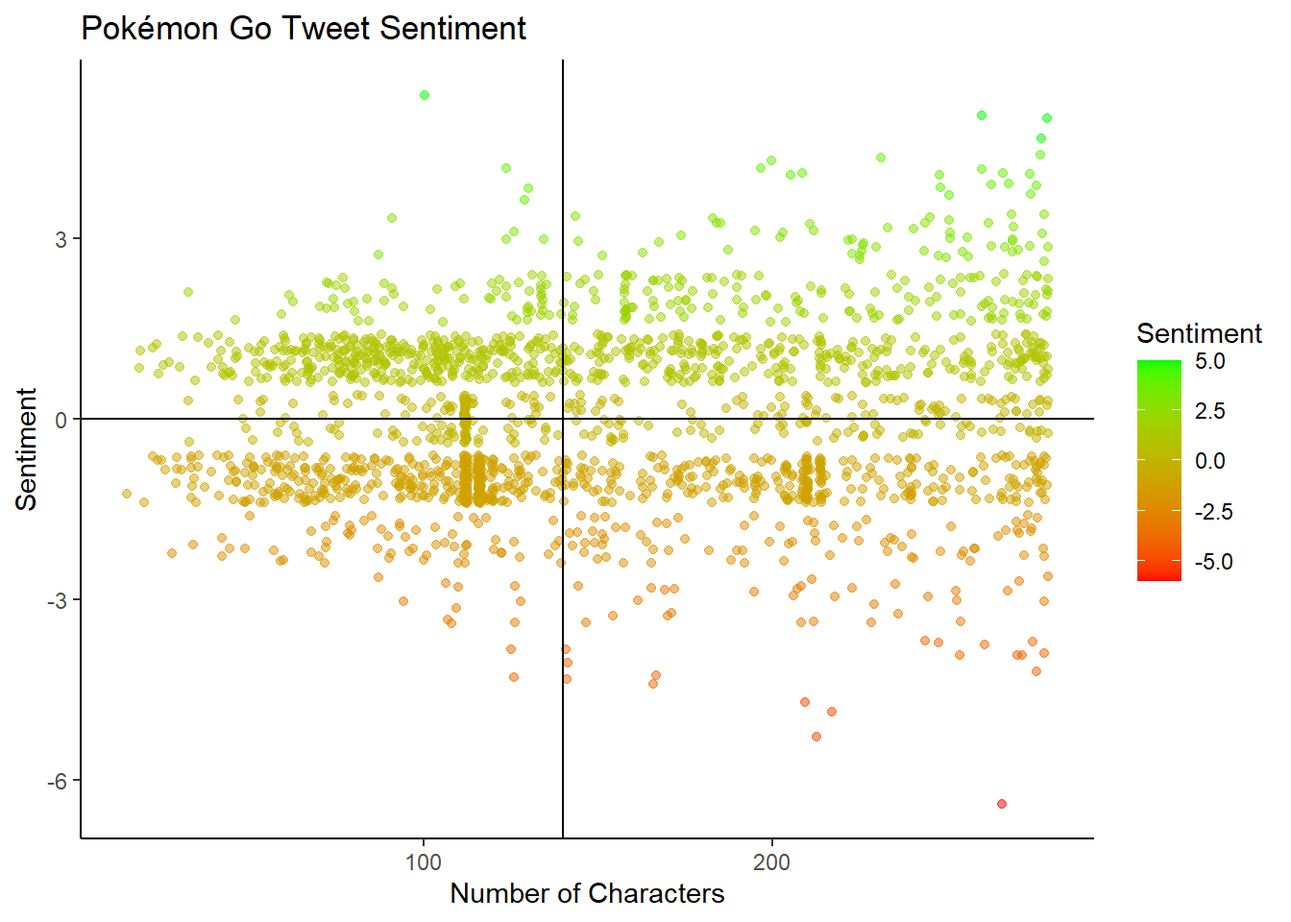
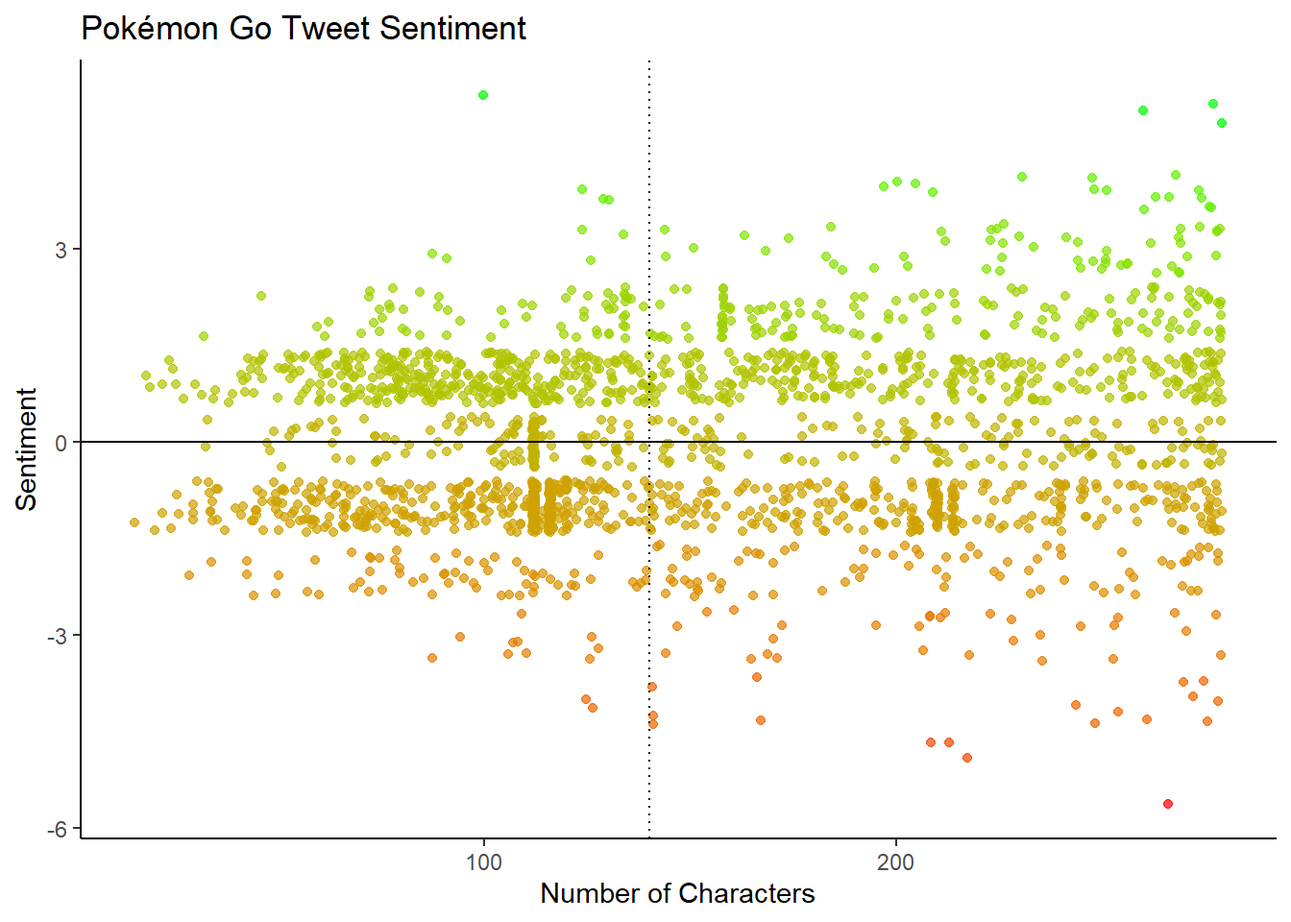
update all plots and all analysis

diff --git a/docs/rstats.html b/docs/rstats.html
@@ -15,6 +15,69 @@ span.underline{text-decoration: underline;}
 div.column{display: inline-block; vertical-align: top; width: 50%;}
 div.hanging-indent{margin-left: 1.5em; text-indent: -1.5em;}
 ul.task-list{list-style: none;}
+pre > code.sourceCode { white-space: pre; position: relative; }
+pre > code.sourceCode > span { display: inline-block; line-height: 1.25; }
+pre > code.sourceCode > span:empty { height: 1.2em; }
+.sourceCode { overflow: visible; }
+code.sourceCode > span { color: inherit; text-decoration: inherit; }
+div.sourceCode { margin: 1em 0; }
+pre.sourceCode { margin: 0; }
+@media screen {
+div.sourceCode { overflow: auto; }
+}
+@media print {
+pre > code.sourceCode { white-space: pre-wrap; }
+pre > code.sourceCode > span { text-indent: -5em; padding-left: 5em; }
+}
+pre.numberSource code
+  { counter-reset: source-line 0; }
+pre.numberSource code > span
+  { position: relative; left: -4em; counter-increment: source-line; }
+pre.numberSource code > span > a:first-child::before
+  { content: counter(source-line);
+    position: relative; left: -1em; text-align: right; vertical-align: baseline;
+    border: none; display: inline-block;
+    -webkit-touch-callout: none; -webkit-user-select: none;
+    -khtml-user-select: none; -moz-user-select: none;
+    -ms-user-select: none; user-select: none;
+    padding: 0 4px; width: 4em;
+    color: #aaaaaa;
+  }
+pre.numberSource { margin-left: 3em; border-left: 1px solid #aaaaaa;  padding-left: 4px; }
+div.sourceCode
+  {   }
+@media screen {
+pre > code.sourceCode > span > a:first-child::before { text-decoration: underline; }
+}
+code span.al { color: #ff0000; font-weight: bold; } /* Alert */
+code span.an { color: #60a0b0; font-weight: bold; font-style: italic; } /* Annotation */
+code span.at { color: #7d9029; } /* Attribute */
+code span.bn { color: #40a070; } /* BaseN */
+code span.bu { } /* BuiltIn */
+code span.cf { color: #007020; font-weight: bold; } /* ControlFlow */
+code span.ch { color: #4070a0; } /* Char */
+code span.cn { color: #880000; } /* Constant */
+code span.co { color: #60a0b0; font-style: italic; } /* Comment */
+code span.cv { color: #60a0b0; font-weight: bold; font-style: italic; } /* CommentVar */
+code span.do { color: #ba2121; font-style: italic; } /* Documentation */
+code span.dt { color: #902000; } /* DataType */
+code span.dv { color: #40a070; } /* DecVal */
+code span.er { color: #ff0000; font-weight: bold; } /* Error */
+code span.ex { } /* Extension */
+code span.fl { color: #40a070; } /* Float */
+code span.fu { color: #06287e; } /* Function */
+code span.im { } /* Import */
+code span.in { color: #60a0b0; font-weight: bold; font-style: italic; } /* Information */
+code span.kw { color: #007020; font-weight: bold; } /* Keyword */
+code span.op { color: #666666; } /* Operator */
+code span.ot { color: #007020; } /* Other */
+code span.pp { color: #bc7a00; } /* Preprocessor */
+code span.sc { color: #4070a0; } /* SpecialChar */
+code span.ss { color: #bb6688; } /* SpecialString */
+code span.st { color: #4070a0; } /* String */
+code span.va { color: #19177c; } /* Variable */
+code span.vs { color: #4070a0; } /* VerbatimString */
+code span.wa { color: #60a0b0; font-weight: bold; font-style: italic; } /* Warning */
 </style>
 
 
@@ -99,7 +162,11 @@ ul.task-list{list-style: none;}
     <h2 id="toc-title">On this page</h2>
    
   <ul>
-  <li><a href="#rstats-tweets" id="toc-rstats-tweets" class="nav-link active" data-scroll-target="#rstats-tweets"><code>#rstats Tweets</code></a></li>
+  <li><a href="#rstats-tweets" id="toc-rstats-tweets" class="nav-link active" data-scroll-target="#rstats-tweets"><code>#rstats Tweets</code></a>
+  <ul class="collapse">
+  <li><a href="#sentiment" id="toc-sentiment" class="nav-link" data-scroll-target="#sentiment">Sentiment</a></li>
+  <li><a href="#correlation" id="toc-correlation" class="nav-link" data-scroll-target="#correlation">Correlation</a></li>
+  </ul></li>
   </ul>
 </nav>
     </div>
@@ -110,8 +177,143 @@ ul.task-list{list-style: none;}
 
 <section id="rstats-tweets" class="level1">
 <h1><code>#rstats Tweets</code></h1>
+<div class="cell">
+<div class="sourceCode cell-code" id="cb1"><pre class="sourceCode r code-with-copy"><code class="sourceCode r"><span id="cb1-1"><a href="#cb1-1" aria-hidden="true" tabindex="-1"></a><span class="co"># load packages</span></span>
+<span id="cb1-2"><a href="#cb1-2" aria-hidden="true" tabindex="-1"></a><span class="fu">library</span>(DBI) <span class="co"># to connect to database</span></span>
+<span id="cb1-3"><a href="#cb1-3" aria-hidden="true" tabindex="-1"></a><span class="fu">library</span>(RPostgres) <span class="co"># to connect to database</span></span>
+<span id="cb1-4"><a href="#cb1-4" aria-hidden="true" tabindex="-1"></a><span class="fu">library</span>(dplyr) <span class="co"># to wrangle data</span></span>
+<span id="cb1-5"><a href="#cb1-5" aria-hidden="true" tabindex="-1"></a><span class="fu">library</span>(tidytext) <span class="co"># wrangle text data</span></span>
+<span id="cb1-6"><a href="#cb1-6" aria-hidden="true" tabindex="-1"></a><span class="fu">library</span>(tidyverse) <span class="co"># meta tidyverse package</span></span>
+<span id="cb1-7"><a href="#cb1-7" aria-hidden="true" tabindex="-1"></a><span class="fu">library</span>(RColorBrewer) <span class="co"># for color brewing</span></span>
+<span id="cb1-8"><a href="#cb1-8" aria-hidden="true" tabindex="-1"></a><span class="fu">library</span>(widyr) <span class="co"># for pairwise correlation </span></span>
+<span id="cb1-9"><a href="#cb1-9" aria-hidden="true" tabindex="-1"></a><span class="fu">library</span>(igraph) <span class="co"># for data visualization</span></span>
+<span id="cb1-10"><a href="#cb1-10" aria-hidden="true" tabindex="-1"></a><span class="fu">library</span>(ggraph) <span class="co"># for data visualization</span></span>
+<span id="cb1-11"><a href="#cb1-11" aria-hidden="true" tabindex="-1"></a></span>
+<span id="cb1-12"><a href="#cb1-12" aria-hidden="true" tabindex="-1"></a><span class="co"># connect to database</span></span>
+<span id="cb1-13"><a href="#cb1-13" aria-hidden="true" tabindex="-1"></a>con <span class="ot">&lt;-</span> <span class="fu">dbConnect</span>(RPostgres<span class="sc">::</span><span class="fu">Postgres</span>(),<span class="at">dbname =</span> <span class="st">'postgres'</span>,</span>
+<span id="cb1-14"><a href="#cb1-14" aria-hidden="true" tabindex="-1"></a>                 <span class="at">host =</span> <span class="st">'localhost'</span>,</span>
+<span id="cb1-15"><a href="#cb1-15" aria-hidden="true" tabindex="-1"></a>                 <span class="at">port =</span> <span class="dv">5432</span>,</span>
+<span id="cb1-16"><a href="#cb1-16" aria-hidden="true" tabindex="-1"></a>                 <span class="at">user =</span> <span class="st">'postgres'</span>,</span>
+<span id="cb1-17"><a href="#cb1-17" aria-hidden="true" tabindex="-1"></a>                 <span class="at">password =</span> <span class="st">'vannah'</span>) </span>
+<span id="cb1-18"><a href="#cb1-18" aria-hidden="true" tabindex="-1"></a></span>
+<span id="cb1-19"><a href="#cb1-19" aria-hidden="true" tabindex="-1"></a><span class="co"># make and execute query</span></span>
+<span id="cb1-20"><a href="#cb1-20" aria-hidden="true" tabindex="-1"></a>res <span class="ot">&lt;-</span> <span class="fu">dbSendQuery</span>(con, <span class="st">"</span></span>
+<span id="cb1-21"><a href="#cb1-21" aria-hidden="true" tabindex="-1"></a></span>
+<span id="cb1-22"><a href="#cb1-22" aria-hidden="true" tabindex="-1"></a><span class="st">SELECT DISTINCT(t.id_str), text, display_text_range, retweet_count, favorite_count</span></span>
+<span id="cb1-23"><a href="#cb1-23" aria-hidden="true" tabindex="-1"></a><span class="st">FROM rstats_text AS t</span></span>
+<span id="cb1-24"><a href="#cb1-24" aria-hidden="true" tabindex="-1"></a><span class="st">INNER JOIN rstats_data AS d</span></span>
+<span id="cb1-25"><a href="#cb1-25" aria-hidden="true" tabindex="-1"></a><span class="st">ON d.id_str = t.id_str</span></span>
+<span id="cb1-26"><a href="#cb1-26" aria-hidden="true" tabindex="-1"></a></span>
+<span id="cb1-27"><a href="#cb1-27" aria-hidden="true" tabindex="-1"></a><span class="st">-- DISTINCT(t.id_str) eliminates duplicates </span></span>
+<span id="cb1-28"><a href="#cb1-28" aria-hidden="true" tabindex="-1"></a><span class="st">                   </span></span>
+<span id="cb1-29"><a href="#cb1-29" aria-hidden="true" tabindex="-1"></a><span class="st">                   "</span>)</span>
+<span id="cb1-30"><a href="#cb1-30" aria-hidden="true" tabindex="-1"></a></span>
+<span id="cb1-31"><a href="#cb1-31" aria-hidden="true" tabindex="-1"></a>query_df <span class="ot">&lt;-</span> <span class="fu">dbFetch</span>(res)</span>
+<span id="cb1-32"><a href="#cb1-32" aria-hidden="true" tabindex="-1"></a></span>
+<span id="cb1-33"><a href="#cb1-33" aria-hidden="true" tabindex="-1"></a><span class="co"># clear query and disconnect from database</span></span>
+<span id="cb1-34"><a href="#cb1-34" aria-hidden="true" tabindex="-1"></a><span class="fu">dbClearResult</span>(res)</span>
+<span id="cb1-35"><a href="#cb1-35" aria-hidden="true" tabindex="-1"></a><span class="fu">dbDisconnect</span>(con)</span>
+<span id="cb1-36"><a href="#cb1-36" aria-hidden="true" tabindex="-1"></a></span>
+<span id="cb1-37"><a href="#cb1-37" aria-hidden="true" tabindex="-1"></a><span class="co"># clean data</span></span>
+<span id="cb1-38"><a href="#cb1-38" aria-hidden="true" tabindex="-1"></a>db_new <span class="ot">&lt;-</span> <span class="fu">unnest_tokens</span>(<span class="at">tbl =</span> query_df, <span class="at">input =</span> text, <span class="at">output =</span> word)</span>
+<span id="cb1-39"><a href="#cb1-39" aria-hidden="true" tabindex="-1"></a></span>
+<span id="cb1-40"><a href="#cb1-40" aria-hidden="true" tabindex="-1"></a>stp_wrds <span class="ot">&lt;-</span> <span class="fu">get_stopwords</span>(<span class="at">source =</span> <span class="st">"smart"</span>)</span>
+<span id="cb1-41"><a href="#cb1-41" aria-hidden="true" tabindex="-1"></a></span>
+<span id="cb1-42"><a href="#cb1-42" aria-hidden="true" tabindex="-1"></a>db_new <span class="ot">&lt;-</span> <span class="fu">anti_join</span>(db_new, stp_wrds, <span class="at">by =</span> <span class="st">"word"</span>)</span>
+<span id="cb1-43"><a href="#cb1-43" aria-hidden="true" tabindex="-1"></a></span>
+<span id="cb1-44"><a href="#cb1-44" aria-hidden="true" tabindex="-1"></a>bing <span class="ot">&lt;-</span> <span class="fu">get_sentiments</span>(<span class="at">lexicon =</span> <span class="st">"bing"</span>)</span>
+<span id="cb1-45"><a href="#cb1-45" aria-hidden="true" tabindex="-1"></a></span>
+<span id="cb1-46"><a href="#cb1-46" aria-hidden="true" tabindex="-1"></a>db_bing <span class="ot">&lt;-</span> <span class="fu">inner_join</span>(db_new, bing, <span class="at">by =</span> <span class="st">"word"</span>)</span>
+<span id="cb1-47"><a href="#cb1-47" aria-hidden="true" tabindex="-1"></a></span>
+<span id="cb1-48"><a href="#cb1-48" aria-hidden="true" tabindex="-1"></a>db_bing <span class="ot">&lt;-</span> <span class="fu">count</span>(db_bing, id_str, display_text_range, retweet_count, favorite_count, word, sentiment)</span>
+<span id="cb1-49"><a href="#cb1-49" aria-hidden="true" tabindex="-1"></a></span>
+<span id="cb1-50"><a href="#cb1-50" aria-hidden="true" tabindex="-1"></a>db_bing <span class="ot">&lt;-</span> <span class="fu">spread</span>(<span class="at">key =</span> sentiment, <span class="at">value =</span> n, <span class="at">fill =</span> <span class="dv">0</span>, <span class="at">data =</span> db_bing)</span>
+<span id="cb1-51"><a href="#cb1-51" aria-hidden="true" tabindex="-1"></a></span>
+<span id="cb1-52"><a href="#cb1-52" aria-hidden="true" tabindex="-1"></a></span>
+<span id="cb1-53"><a href="#cb1-53" aria-hidden="true" tabindex="-1"></a>db_bing <span class="ot">&lt;-</span> <span class="fu">mutate</span>(<span class="at">sentiment =</span> positive <span class="sc">-</span> negative, <span class="at">.data =</span> db_bing)</span>
+<span id="cb1-54"><a href="#cb1-54" aria-hidden="true" tabindex="-1"></a></span>
+<span id="cb1-55"><a href="#cb1-55" aria-hidden="true" tabindex="-1"></a><span class="fu">mean</span>(db_bing<span class="sc">$</span>sentiment, <span class="at">na.rm =</span> <span class="cn">TRUE</span>)</span></code><button title="Copy to Clipboard" class="code-copy-button"><i class="bi"></i></button></pre></div>
+<div class="cell-output cell-output-stdout">
+<pre><code>[1] 0.3648961</code></pre>
+</div>
+</div>
+<section id="sentiment" class="level2">
+<h2 class="anchored" data-anchor-id="sentiment">Sentiment</h2>
+<div class="cell">
+<div class="sourceCode cell-code" id="cb3"><pre class="sourceCode r code-with-copy"><code class="sourceCode r"><span id="cb3-1"><a href="#cb3-1" aria-hidden="true" tabindex="-1"></a>fun_color_range <span class="ot">&lt;-</span> <span class="fu">colorRampPalette</span>(<span class="fu">c</span>(<span class="st">"red"</span>, <span class="st">"green"</span>))</span>
+<span id="cb3-2"><a href="#cb3-2" aria-hidden="true" tabindex="-1"></a>my_colors2 <span class="ot">&lt;-</span> <span class="fu">fun_color_range</span>(<span class="dv">2</span>)</span>
+<span id="cb3-3"><a href="#cb3-3" aria-hidden="true" tabindex="-1"></a></span>
+<span id="cb3-4"><a href="#cb3-4" aria-hidden="true" tabindex="-1"></a>db_sentiment <span class="ot">&lt;-</span> db_bing <span class="sc">%&gt;%</span> </span>
+<span id="cb3-5"><a href="#cb3-5" aria-hidden="true" tabindex="-1"></a>  <span class="fu">mutate</span>(<span class="at">value =</span> <span class="fu">case_when</span>(sentiment <span class="sc">&gt;</span> <span class="dv">0</span> <span class="sc">~</span> <span class="st">'positive'</span>,</span>
+<span id="cb3-6"><a href="#cb3-6" aria-hidden="true" tabindex="-1"></a>                           sentiment <span class="sc">==</span> <span class="dv">0</span> <span class="sc">~</span> <span class="st">'neutral'</span>,</span>
+<span id="cb3-7"><a href="#cb3-7" aria-hidden="true" tabindex="-1"></a>                           sentiment <span class="sc">&lt;</span> <span class="dv">0</span> <span class="sc">~</span> <span class="st">'negative'</span>)) <span class="sc">%&gt;%</span></span>
+<span id="cb3-8"><a href="#cb3-8" aria-hidden="true" tabindex="-1"></a>  <span class="fu">filter</span>(value <span class="sc">==</span> <span class="st">'positive'</span> <span class="sc">|</span> value <span class="sc">==</span> <span class="st">'negative'</span>)</span>
+<span id="cb3-9"><a href="#cb3-9" aria-hidden="true" tabindex="-1"></a></span>
+<span id="cb3-10"><a href="#cb3-10" aria-hidden="true" tabindex="-1"></a>r_sentiment <span class="ot">&lt;-</span> db_sentiment <span class="sc">%&gt;%</span></span>
+<span id="cb3-11"><a href="#cb3-11" aria-hidden="true" tabindex="-1"></a>  <span class="fu">group_by</span>(id_str) <span class="sc">%&gt;%</span></span>
+<span id="cb3-12"><a href="#cb3-12" aria-hidden="true" tabindex="-1"></a>  <span class="fu">summarise</span>( <span class="at">display_text_range =</span> <span class="fu">mean</span>(display_text_range), <span class="at">Sentiment =</span> <span class="fu">sum</span>(sentiment)) <span class="sc">%&gt;%</span> </span>
+<span id="cb3-13"><a href="#cb3-13" aria-hidden="true" tabindex="-1"></a>  <span class="fu">filter</span>(display_text_range <span class="sc">&lt;</span> <span class="dv">280</span>) <span class="sc">%&gt;%</span></span>
+<span id="cb3-14"><a href="#cb3-14" aria-hidden="true" tabindex="-1"></a>  <span class="fu">ggplot</span>(<span class="at">mapping =</span> <span class="fu">aes</span>(<span class="at">x =</span> display_text_range, <span class="at">y =</span> Sentiment, <span class="at">color =</span> Sentiment)) <span class="sc">+</span></span>
+<span id="cb3-15"><a href="#cb3-15" aria-hidden="true" tabindex="-1"></a>  <span class="fu">geom_jitter</span>(<span class="at">alpha =</span> .<span class="dv">5</span>) <span class="sc">+</span> </span>
+<span id="cb3-16"><a href="#cb3-16" aria-hidden="true" tabindex="-1"></a>  <span class="fu">scale_colour_gradientn</span>(<span class="at">colors =</span> my_colors2) <span class="sc">+</span></span>
+<span id="cb3-17"><a href="#cb3-17" aria-hidden="true" tabindex="-1"></a>  <span class="fu">geom_hline</span>(<span class="at">linetype =</span> <span class="dv">1</span>, <span class="at">yintercept =</span> <span class="dv">0</span>, <span class="at">size =</span> .<span class="dv">5</span>) <span class="sc">+</span></span>
+<span id="cb3-18"><a href="#cb3-18" aria-hidden="true" tabindex="-1"></a>  <span class="fu">geom_vline</span>(<span class="at">linetype =</span> <span class="dv">1</span>, <span class="at">xintercept =</span> <span class="dv">140</span>, <span class="at">size =</span> .<span class="dv">5</span>) <span class="sc">+</span></span>
+<span id="cb3-19"><a href="#cb3-19" aria-hidden="true" tabindex="-1"></a>  <span class="fu">theme_classic</span>() <span class="sc">+</span></span>
+<span id="cb3-20"><a href="#cb3-20" aria-hidden="true" tabindex="-1"></a>  <span class="fu">theme</span>() <span class="sc">+</span> </span>
+<span id="cb3-21"><a href="#cb3-21" aria-hidden="true" tabindex="-1"></a>  <span class="fu">labs</span>(<span class="at">title =</span> <span class="st">"#rstats Tweet Sentiment"</span>, <span class="at">x =</span> <span class="st">"Number of Characters"</span>, <span class="at">y =</span> <span class="st">"Sentiment"</span>)</span>
+<span id="cb3-22"><a href="#cb3-22" aria-hidden="true" tabindex="-1"></a>r_sentiment</span></code><button title="Copy to Clipboard" class="code-copy-button"><i class="bi"></i></button></pre></div>
+<div class="cell-output-display">
+<p><img src="rstats_files/figure-html/analyze%20and%20visualize%20sentiment-1.png" class="img-fluid" width="672"></p>
+</div>
+</div>
+</section>
+<section id="correlation" class="level2">
+<h2 class="anchored" data-anchor-id="correlation">Correlation</h2>
+<div class="cell">
+<div class="sourceCode cell-code" id="cb4"><pre class="sourceCode r code-with-copy"><code class="sourceCode r"><span id="cb4-1"><a href="#cb4-1" aria-hidden="true" tabindex="-1"></a>tweet_words <span class="ot">&lt;-</span> query_df <span class="sc">%&gt;%</span> </span>
+<span id="cb4-2"><a href="#cb4-2" aria-hidden="true" tabindex="-1"></a>  <span class="fu">unnest_tokens</span>(<span class="at">output =</span> word, <span class="at">input =</span> text) <span class="sc">%&gt;%</span> </span>
+<span id="cb4-3"><a href="#cb4-3" aria-hidden="true" tabindex="-1"></a>  <span class="fu">anti_join</span>(stop_words, <span class="at">by =</span> <span class="st">"word"</span>) <span class="sc">%&gt;%</span> </span>
+<span id="cb4-4"><a href="#cb4-4" aria-hidden="true" tabindex="-1"></a>  <span class="fu">filter</span>(<span class="fu">str_detect</span>(word, <span class="st">"[:alpha:]"</span>)) <span class="sc">%&gt;%</span> </span>
+<span id="cb4-5"><a href="#cb4-5" aria-hidden="true" tabindex="-1"></a>  <span class="fu">distinct</span>()</span>
+<span id="cb4-6"><a href="#cb4-6" aria-hidden="true" tabindex="-1"></a></span>
+<span id="cb4-7"><a href="#cb4-7" aria-hidden="true" tabindex="-1"></a><span class="co">#---- remove non-words ----#</span></span>
+<span id="cb4-8"><a href="#cb4-8" aria-hidden="true" tabindex="-1"></a>word <span class="ot">&lt;-</span> <span class="fu">c</span>(<span class="st">'https'</span>,<span class="st">'t.co'</span>, <span class="st">'ttv'</span>, <span class="st">'bcluhhk8eu'</span>)</span>
+<span id="cb4-9"><a href="#cb4-9" aria-hidden="true" tabindex="-1"></a>extra2 <span class="ot">&lt;-</span> <span class="fu">data.frame</span>(word)</span>
+<span id="cb4-10"><a href="#cb4-10" aria-hidden="true" tabindex="-1"></a></span>
+<span id="cb4-11"><a href="#cb4-11" aria-hidden="true" tabindex="-1"></a>tweet_words <span class="ot">&lt;-</span> tweet_words <span class="sc">%&gt;%</span></span>
+<span id="cb4-12"><a href="#cb4-12" aria-hidden="true" tabindex="-1"></a>  <span class="fu">anti_join</span>(extra2, <span class="at">by =</span> <span class="st">"word"</span>)</span>
+<span id="cb4-13"><a href="#cb4-13" aria-hidden="true" tabindex="-1"></a></span>
+<span id="cb4-14"><a href="#cb4-14" aria-hidden="true" tabindex="-1"></a><span class="co">#---- first visual ----#</span></span>
+<span id="cb4-15"><a href="#cb4-15" aria-hidden="true" tabindex="-1"></a>tweets_that_mention_word <span class="ot">&lt;-</span> tweet_words <span class="sc">%&gt;%</span> </span>
+<span id="cb4-16"><a href="#cb4-16" aria-hidden="true" tabindex="-1"></a>  <span class="fu">count</span>(word, <span class="at">name =</span> <span class="st">"number_of_tweets"</span>) <span class="sc">%&gt;%</span> </span>
+<span id="cb4-17"><a href="#cb4-17" aria-hidden="true" tabindex="-1"></a>  <span class="fu">filter</span>(number_of_tweets <span class="sc">&gt;=</span> <span class="dv">100</span>)</span>
+<span id="cb4-18"><a href="#cb4-18" aria-hidden="true" tabindex="-1"></a></span>
+<span id="cb4-19"><a href="#cb4-19" aria-hidden="true" tabindex="-1"></a></span>
+<span id="cb4-20"><a href="#cb4-20" aria-hidden="true" tabindex="-1"></a>tweet_correlations <span class="ot">&lt;-</span> tweet_words <span class="sc">%&gt;%</span> </span>
+<span id="cb4-21"><a href="#cb4-21" aria-hidden="true" tabindex="-1"></a>  <span class="fu">semi_join</span>(tweets_that_mention_word, <span class="at">by =</span> <span class="st">"word"</span>) <span class="sc">%&gt;%</span> </span>
+<span id="cb4-22"><a href="#cb4-22" aria-hidden="true" tabindex="-1"></a>  <span class="fu">pairwise_cor</span>(<span class="at">item =</span> word, <span class="at">feature =</span> id_str) <span class="sc">%&gt;%</span> </span>
+<span id="cb4-23"><a href="#cb4-23" aria-hidden="true" tabindex="-1"></a>  <span class="fu">filter</span>(correlation <span class="sc">&gt;=</span> <span class="fl">0.64</span>) </span>
+<span id="cb4-24"><a href="#cb4-24" aria-hidden="true" tabindex="-1"></a></span>
+<span id="cb4-25"><a href="#cb4-25" aria-hidden="true" tabindex="-1"></a></span>
+<span id="cb4-26"><a href="#cb4-26" aria-hidden="true" tabindex="-1"></a>r_correlations <span class="ot">&lt;-</span> <span class="fu">graph_from_data_frame</span>(<span class="at">d =</span> tweet_correlations,</span>
+<span id="cb4-27"><a href="#cb4-27" aria-hidden="true" tabindex="-1"></a>                      <span class="at">vertices =</span> tweets_that_mention_word <span class="sc">%&gt;%</span></span>
+<span id="cb4-28"><a href="#cb4-28" aria-hidden="true" tabindex="-1"></a>                        <span class="fu">semi_join</span>(tweet_correlations, <span class="at">by =</span> <span class="fu">c</span>(<span class="st">"word"</span> <span class="ot">=</span> <span class="st">"item1"</span>))) <span class="sc">%&gt;%</span></span>
+<span id="cb4-29"><a href="#cb4-29" aria-hidden="true" tabindex="-1"></a>  <span class="fu">ggraph</span>(<span class="at">layout =</span> <span class="st">"fr"</span>) <span class="sc">+</span></span>
+<span id="cb4-30"><a href="#cb4-30" aria-hidden="true" tabindex="-1"></a>  <span class="fu">geom_edge_link</span>(<span class="fu">aes</span>(<span class="at">alpha =</span> correlation)) <span class="sc">+</span> </span>
+<span id="cb4-31"><a href="#cb4-31" aria-hidden="true" tabindex="-1"></a>  <span class="fu">geom_node_point</span>() <span class="sc">+</span></span>
+<span id="cb4-32"><a href="#cb4-32" aria-hidden="true" tabindex="-1"></a>  <span class="fu">geom_node_text</span>(<span class="fu">aes</span>(<span class="at">color =</span> number_of_tweets, <span class="at">label =</span> name), <span class="at">repel =</span> <span class="cn">TRUE</span>, <span class="at">check_overlap =</span> <span class="cn">TRUE</span>, <span class="at">size =</span> <span class="dv">4</span>) <span class="sc">+</span> </span>
+<span id="cb4-33"><a href="#cb4-33" aria-hidden="true" tabindex="-1"></a>  <span class="fu">labs</span>(<span class="at">title =</span> <span class="st">"#rstats Tweets"</span>) <span class="sc">+</span></span>
+<span id="cb4-34"><a href="#cb4-34" aria-hidden="true" tabindex="-1"></a>  <span class="fu">scale_colour_gradientn</span>(<span class="at">colours=</span><span class="fu">c</span>(<span class="st">"#3e3b92"</span>, <span class="st">"#f44369"</span>)) <span class="sc">+</span></span>
+<span id="cb4-35"><a href="#cb4-35" aria-hidden="true" tabindex="-1"></a>  <span class="fu">theme</span>(<span class="at">panel.background =</span> <span class="fu">element_rect</span>(<span class="at">fill =</span> <span class="st">"#eaeaea"</span>),</span>
+<span id="cb4-36"><a href="#cb4-36" aria-hidden="true" tabindex="-1"></a>        <span class="at">plot.background =</span> <span class="fu">element_rect</span>(<span class="at">fill =</span> <span class="st">"#ffffff"</span>))</span>
+<span id="cb4-37"><a href="#cb4-37" aria-hidden="true" tabindex="-1"></a>r_correlations</span></code><button title="Copy to Clipboard" class="code-copy-button"><i class="bi"></i></button></pre></div>
+<div class="cell-output-display">
+<p><img src="rstats_files/figure-html/analyze%20correlation-1.png" class="img-fluid" width="672"></p>
+</div>
+</div>
 
 
+</section>
 </section>
 
 </main> <!-- /main -->

diff --git a/docs/pogo.html b/docs/pogo.html
@@ -254,12 +254,12 @@ code span.wa { color: #60a0b0; font-weight: bold; font-style: italic; } /* Warni
 <span id="cb3-12"><a href="#cb3-12" aria-hidden="true" tabindex="-1"></a>  <span class="fu">summarise</span>( <span class="at">display_text_range =</span> <span class="fu">mean</span>(display_text_range), <span class="at">Sentiment =</span> <span class="fu">sum</span>(sentiment)) <span class="sc">%&gt;%</span> </span>
 <span id="cb3-13"><a href="#cb3-13" aria-hidden="true" tabindex="-1"></a>  <span class="fu">filter</span>(display_text_range <span class="sc">&lt;</span> <span class="dv">280</span>) <span class="sc">%&gt;%</span></span>
 <span id="cb3-14"><a href="#cb3-14" aria-hidden="true" tabindex="-1"></a>  <span class="fu">ggplot</span>(<span class="at">mapping =</span> <span class="fu">aes</span>(<span class="at">x =</span> display_text_range, <span class="at">y =</span> Sentiment, <span class="at">color =</span> Sentiment)) <span class="sc">+</span></span>
-<span id="cb3-15"><a href="#cb3-15" aria-hidden="true" tabindex="-1"></a>  <span class="fu">geom_jitter</span>(<span class="at">alpha =</span> .<span class="dv">5</span>) <span class="sc">+</span> </span>
+<span id="cb3-15"><a href="#cb3-15" aria-hidden="true" tabindex="-1"></a>  <span class="fu">geom_jitter</span>(<span class="at">alpha =</span> .<span class="dv">7</span>) <span class="sc">+</span> </span>
 <span id="cb3-16"><a href="#cb3-16" aria-hidden="true" tabindex="-1"></a>  <span class="fu">scale_colour_gradientn</span>(<span class="at">colors =</span> my_colors2) <span class="sc">+</span></span>
 <span id="cb3-17"><a href="#cb3-17" aria-hidden="true" tabindex="-1"></a>  <span class="fu">geom_hline</span>(<span class="at">linetype =</span> <span class="dv">1</span>, <span class="at">yintercept =</span> <span class="dv">0</span>, <span class="at">size =</span> .<span class="dv">5</span>) <span class="sc">+</span></span>
-<span id="cb3-18"><a href="#cb3-18" aria-hidden="true" tabindex="-1"></a>  <span class="fu">geom_vline</span>(<span class="at">linetype =</span> <span class="dv">1</span>, <span class="at">xintercept =</span> <span class="dv">140</span>, <span class="at">size =</span> .<span class="dv">5</span>) <span class="sc">+</span></span>
+<span id="cb3-18"><a href="#cb3-18" aria-hidden="true" tabindex="-1"></a>  <span class="fu">geom_vline</span>(<span class="at">linetype =</span> <span class="dv">3</span>, <span class="at">xintercept =</span> <span class="dv">140</span>, <span class="at">size =</span> .<span class="dv">5</span>) <span class="sc">+</span></span>
 <span id="cb3-19"><a href="#cb3-19" aria-hidden="true" tabindex="-1"></a>  <span class="fu">theme_classic</span>() <span class="sc">+</span></span>
-<span id="cb3-20"><a href="#cb3-20" aria-hidden="true" tabindex="-1"></a>  <span class="fu">theme</span>() <span class="sc">+</span> </span>
+<span id="cb3-20"><a href="#cb3-20" aria-hidden="true" tabindex="-1"></a>  <span class="fu">theme</span>(<span class="at">legend.position =</span> <span class="st">""</span>) <span class="sc">+</span> </span>
 <span id="cb3-21"><a href="#cb3-21" aria-hidden="true" tabindex="-1"></a>  <span class="fu">labs</span>(<span class="at">title =</span> <span class="st">"Pokémon Go Tweet Sentiment"</span>, <span class="at">x =</span> <span class="st">"Number of Characters"</span>, <span class="at">y =</span> <span class="st">"Sentiment"</span>)</span>
 <span id="cb3-22"><a href="#cb3-22" aria-hidden="true" tabindex="-1"></a>pg_sentiment</span></code><button title="Copy to Clipboard" class="code-copy-button"><i class="bi"></i></button></pre></div>
 <div class="cell-output-display">
